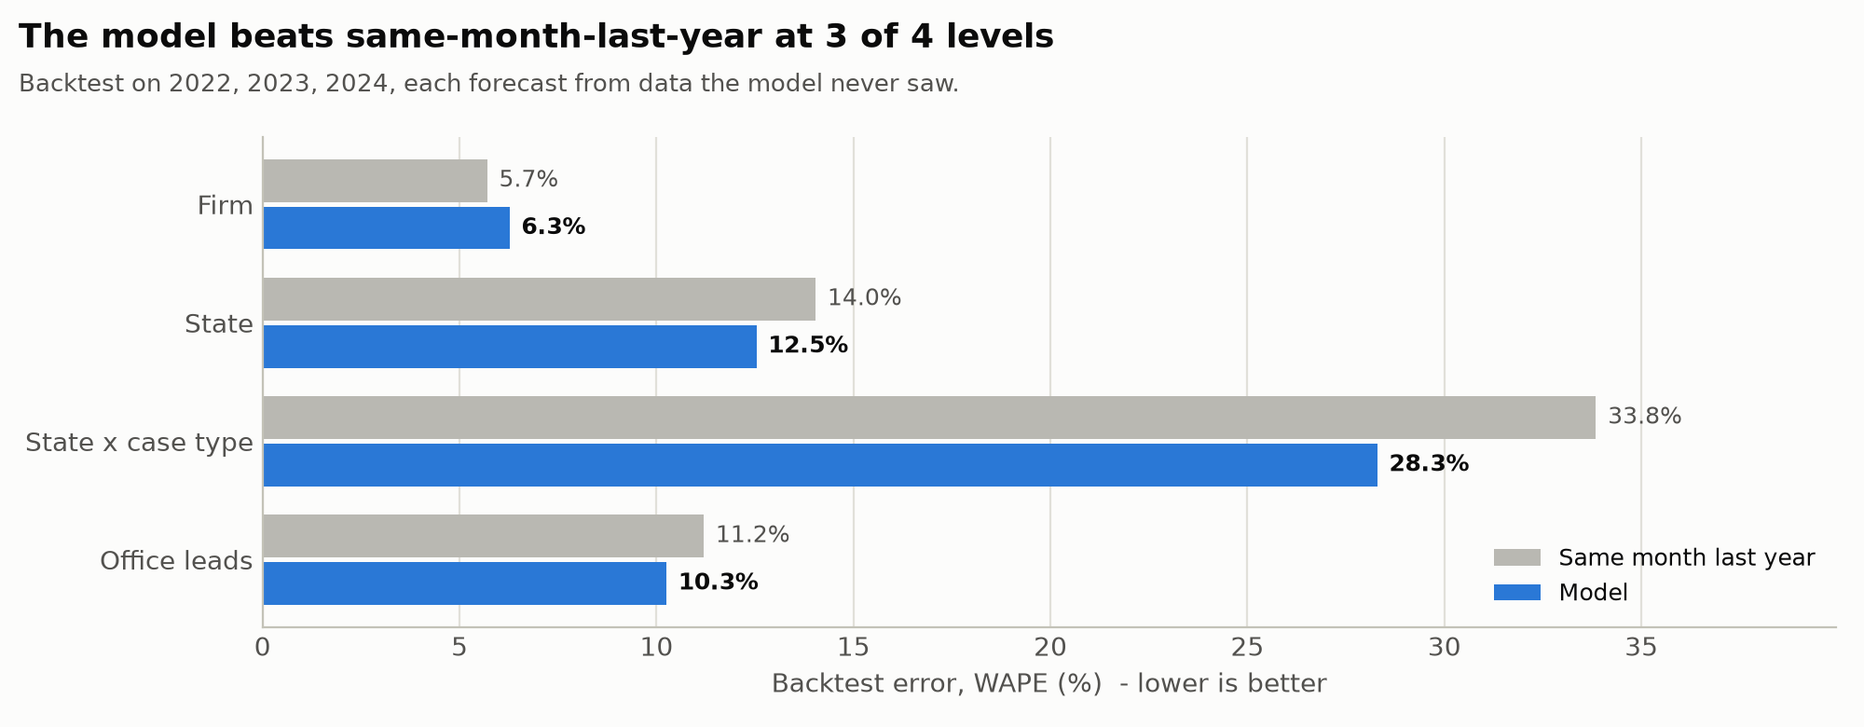
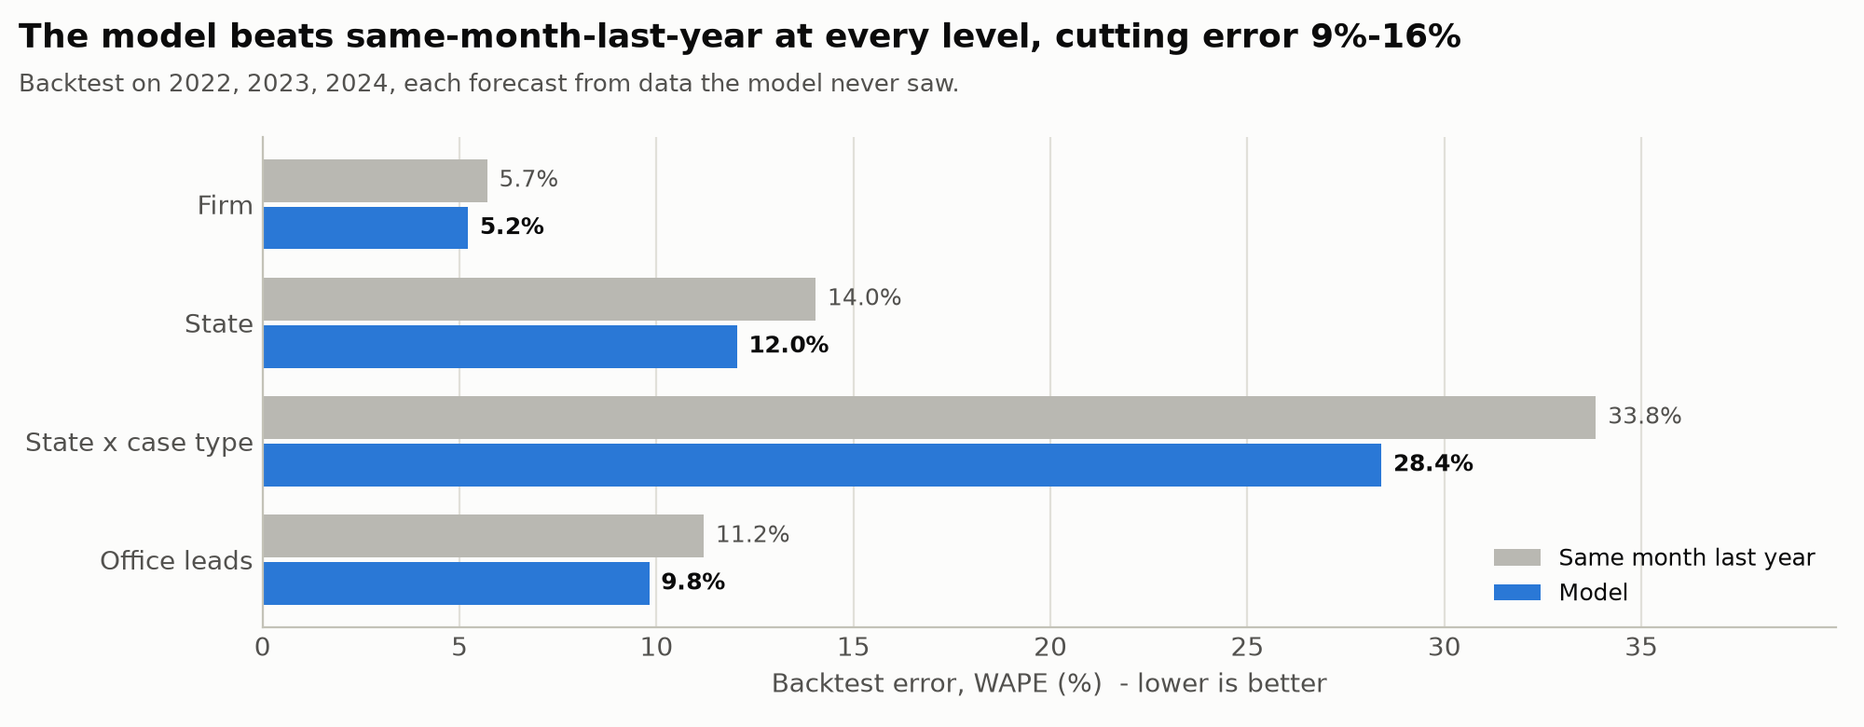
Forecast v2: method chosen on 2022-23, confirmed on held-out 2024

diff --git a/notebooks/02_forecast.py b/notebooks/02_forecast.py
@@ -48,6 +48,12 @@ STATE_ORDER = ["MI", "OH", "PA", "GA", "FL", "TX"]
 FOLDS = [2022, 2023, 2024]           # each fold trains on all earlier years
 FORECAST_YEAR = 2025                 # first year after the data
 N_SIMS = 2000
+# Method settings, chosen automatically by select_method() on the 2022-2023 backtests:
+HALF_LIFE_YEARS: float | None = None  # recency weighting: an observation this many years old counts half
+BLEND = 0.0                           # weight on same-month-last-year in the final forecast (0 = model only)
+CANDIDATES = [(hl, b) for hl in (None, 3.0, 2.0, 1.5) for b in (0.0, 0.3, 0.5)]
+SELECTION_FOLDS = [2022, 2023]        # used to choose the method
+CONFIRMATION_FOLD = 2024              # held out from the choice, used to confirm it
 SEED = 42
 INTAKE_CAPACITY = 60                 # leads per intake specialist per month (assumption S10)
 STAFF_TO = "p80"                     # staff intake to the 80th percentile of forecast leads
@@ -110,9 +116,12 @@ def design(months: pd.Series, covid: pd.Series) -> np.ndarray:
     return X
 
 
-def fit_poisson(X: np.ndarray, y: np.ndarray, iters: int = 50, ridge: float = 1e-6) -> dict:
-    """Iteratively reweighted least squares for a log-link Poisson GLM.
-    Returns coefficients, their covariance (scaled by over-dispersion) and the dispersion phi."""
+def fit_poisson(X: np.ndarray, y: np.ndarray, iters: int = 50, ridge: float = 1e-6,
+                w: np.ndarray | None = None) -> dict:
+    """Iteratively reweighted least squares for a log-link Poisson GLM, with optional observation
+    weights w (recency weighting). Returns coefficients, their covariance (scaled by over-dispersion)
+    and the dispersion phi."""
+    w = np.ones(len(y)) if w is None else w
     keep = X.std(axis=0) > 0
     keep[0] = True
     Xk = X[:, keep]
@@ -121,22 +130,24 @@ def fit_poisson(X: np.ndarray, y: np.ndarray, iters: int = 50, ridge: float = 1e
     for _ in range(iters):
         mu = np.exp(np.clip(Xk @ beta, -20, 20))
         z = Xk @ beta + (y - mu) / mu
-        XtW = Xk.T * mu
+        XtW = Xk.T * (mu * w)
         new = np.linalg.solve(XtW @ Xk + ridge * np.eye(len(beta)), XtW @ z)
         if np.max(np.abs(new - beta)) < 1e-8:
             beta = new
             break
         beta = new
     mu = np.exp(np.clip(Xk @ beta, -20, 20))
-    dof = max(len(y) - len(beta), 1)
-    phi = max(1.0, float(((y - mu) ** 2 / mu).sum() / dof))          # Pearson over-dispersion
-    cov = phi * np.linalg.inv((Xk.T * mu) @ Xk + ridge * np.eye(len(beta)))
+    n_eff = w.sum() ** 2 / (w ** 2).sum()                              # effective sample size
+    dof = max(n_eff - len(beta), 1)
+    phi = max(1.0, float((w * (y - mu) ** 2 / mu).sum() / w.sum() * n_eff / dof))   # Pearson over-dispersion
+    cov = phi * np.linalg.inv((Xk.T * (mu * w)) @ Xk + ridge * np.eye(len(beta)))
     full = np.zeros(X.shape[1]); full[keep] = beta
     return dict(beta=full, keep=keep, cov=cov, phi=phi)
 
 
-def simulate(fit: dict, X: np.ndarray, rng: np.random.Generator, n: int = N_SIMS) -> np.ndarray:
+def simulate(fit: dict, X: np.ndarray, rng: np.random.Generator, n: int | None = None) -> np.ndarray:
     """Draws of future counts: coefficient uncertainty + negative-binomial noise with variance phi*mu."""
+    n = n or N_SIMS
     Xk = X[:, fit["keep"]]
     betas = rng.multivariate_normal(fit["beta"][fit["keep"]], fit["cov"], size=n, method="cholesky")
     mu = np.exp(np.clip(betas @ Xk.T, -20, 20))                         # n x horizon
@@ -150,7 +161,11 @@ def forecast_series(hist: pd.DataFrame, future: pd.DataFrame, rng: np.random.Gen
     """Simulated draws (N_SIMS x len(future)) for one series. Future months are never COVID."""
     if hist["y"].sum() == 0:
         return np.zeros((N_SIMS, len(future)))
-    fit = fit_poisson(design(hist["month"], hist["is_covid"]), hist["y"].to_numpy(float))
+    w = None
+    if HALF_LIFE_YEARS:
+        age = (hist["month"].max() - hist["month"]).dt.days.to_numpy() / 365.25
+        w = 0.5 ** (age / HALF_LIFE_YEARS)
+    fit = fit_poisson(design(hist["month"], hist["is_covid"]), hist["y"].to_numpy(float), w=w)
     return simulate(fit, design(future["month"], pd.Series(False, index=future.index)), rng)
 
 
@@ -166,13 +181,14 @@ def baselines(hist: pd.DataFrame, future: pd.DataFrame) -> pd.DataFrame:
 
 
 # %% Run one target (signed cases by state x case type, or leads by office)
-def run_target(df: pd.DataFrame, keys: list[str], rng: np.random.Generator) -> tuple[pd.DataFrame, dict]:
+def run_target(df: pd.DataFrame, keys: list[str], rng: np.random.Generator,
+               years: list[int] | None = None) -> tuple[pd.DataFrame, dict]:
     """Backtest folds + final forecast for every series. Returns long rows and the draws for aggregation."""
     rows, draws = [], {}
     df = df[df["month"] < f"{FORECAST_YEAR}-01-01"].sort_values("month")
     for key, g in df.groupby(keys):
         key = key if isinstance(key, tuple) else (key,)
-        for year in FOLDS + [FORECAST_YEAR]:
+        for year in years or FOLDS + [FORECAST_YEAR]:
             hist = g[g["month"] < f"{year}-01-01"]
             if year == FORECAST_YEAR:
                 future = pd.DataFrame({"month": pd.date_range(f"{year}-01-01", periods=12, freq="MS")})
@@ -182,6 +198,13 @@ def run_target(df: pd.DataFrame, keys: list[str], rng: np.random.Generator) -> t
                 actual = g[g["month"].dt.year == year]["y"].to_numpy(float)
             sims = forecast_series(hist, future, rng)
             base = baselines(hist, future)
+            if BLEND > 0:
+                # Combine with same-month-last-year: move each month's draws to the blended centre,
+                # keeping the model's spread (as a ratio).
+                model_mean = sims.mean(axis=0)
+                naive = base["naive"].to_numpy(float)
+                target = np.where(np.isnan(naive), model_mean, (1 - BLEND) * model_mean + BLEND * naive)
+                sims = sims * np.divide(target, model_mean, out=np.ones_like(target), where=model_mean > 0)
             draws[(key, year)] = sims
             q = np.percentile(sims, [2.5, 10, 50, 80, 90, 97.5], axis=0)
             for i, m in enumerate(future["month"]):
@@ -239,6 +262,55 @@ def annual_ranges(agg_draws: dict, label: dict | None = None) -> pd.DataFrame:
         name = gkey[0] if gkey else "Firm"
         out.append(dict(group=name, mean=total.mean(), p10=np.percentile(total, 10), p90=np.percentile(total, 90)))
     return pd.DataFrame(out).set_index("group")
+
+
+# %% Method selection: choose on 2022-2023, confirm on 2024
+def level_wapes(case_rows: pd.DataFrame, lead_rows: pd.DataFrame, years: list[int]) -> dict:
+    """Point-forecast WAPE (model and same-month-last-year) at each planning level for the given years."""
+    c = case_rows[case_rows["origin_year"].isin(years)]
+    l = lead_rows[lead_rows["origin_year"].isin(years)]
+    firm = c.groupby("month")[["actual", "forecast", "naive"]].sum()
+    state = c.groupby(["state_abbr", "month"])[["actual", "forecast", "naive"]].sum()
+    out = {}
+    for name, d in [("firm", firm), ("state", state), ("segment", c), ("office_leads", l)]:
+        out[name] = (wape(d["actual"], d["forecast"]), wape(d["actual"], d["naive"]))
+    return out
+
+
+def select_method(cases: pd.DataFrame, leads: pd.DataFrame) -> tuple[tuple, pd.DataFrame]:
+    """Try every candidate setting. Score = average across the four levels of model WAPE / baseline WAPE
+    on the SELECTION folds only (below 1.00 = beats same-month-last-year). The winner is then checked on
+    the CONFIRMATION fold, which played no part in the choice, so the reported accuracy is not flattered
+    by the selection itself."""
+    global HALF_LIFE_YEARS, BLEND, N_SIMS
+    saved = (HALF_LIFE_YEARS, BLEND, N_SIMS)
+    N_SIMS = 300                                   # point forecasts only; fewer draws is enough
+    results = []
+    years = SELECTION_FOLDS + [CONFIRMATION_FOLD]
+    for hl, blend in CANDIDATES:
+        HALF_LIFE_YEARS, BLEND = hl, blend
+        rng = np.random.default_rng(SEED)
+        c_rows, _ = run_target(cases, ["state_abbr", "case_type"], rng, years=years)
+        l_rows, _ = run_target(leads, ["office_id", "office", "state_abbr"], rng, years=years)
+        sel = level_wapes(c_rows, l_rows, SELECTION_FOLDS)
+        conf = level_wapes(c_rows, l_rows, [CONFIRMATION_FOLD])
+        results.append(dict(
+            half_life=hl, blend=blend,
+            selection_score=np.mean([m / n for m, n in sel.values()]),
+            confirmation_score=np.mean([m / n for m, n in conf.values()]),
+            **{f"sel_{k}": v[0] for k, v in sel.items()},
+            **{f"conf_{k}": v[0] for k, v in conf.items()},
+            **{f"conf_naive_{k}": v[1] for k, v in conf.items()}))
+    HALF_LIFE_YEARS, BLEND, N_SIMS = saved
+    table = pd.DataFrame(results).sort_values("selection_score").reset_index(drop=True)
+    best = table.iloc[0]
+    return (None if pd.isna(best["half_life"]) else float(best["half_life"]), float(best["blend"])), table
+
+
+def describe_method(hl: float | None, blend: float) -> str:
+    parts = ["all years weighted equally" if not hl else f"recent years weighted more (half-life {hl:g} years)"]
+    parts.append("model only" if blend == 0 else f"blended {1 - blend:.0%} model / {blend:.0%} same-month-last-year")
+    return ", ".join(parts)
 
 
 # %% Accuracy
@@ -336,11 +408,16 @@ def accuracy_chart(table: pd.DataFrame, path: Path) -> None:
 
 # %% Report
 def write_report(levels: dict[str, pd.DataFrame], acc: dict[str, dict], tiers: pd.DataFrame,
-                 staffing: pd.DataFrame, cases_hist: pd.DataFrame, annual: pd.DataFrame) -> str:
+                 staffing: pd.DataFrame, cases_hist: pd.DataFrame, annual: pd.DataFrame,
+                 selection: pd.DataFrame) -> str:
     last_year = cases_hist[cases_hist["month"].dt.year == FORECAST_YEAR - 1]["y"].sum()
     total, lo, hi = annual.loc["Firm", ["mean", "p10", "p90"]]
     a_f, a_s, a_t = acc["firm"], acc["state"], acc["state_type"]
-    cut = 1 - a_f["model"] / a_f["naive"]
+    best = selection.iloc[0]
+    conf = {k: (best[f"conf_{k}"], best[f"conf_naive_{k}"]) for k in ["firm", "state", "segment", "office_leads"]}
+    wins = [k for k, (m, n) in conf.items() if m < n]
+    firm_m, firm_n = conf["firm"]
+    cut = 1 - firm_m / firm_n
 
     st = annual.drop(index="Firm")
     hist_by_state = cases_hist[cases_hist["month"].dt.year == FORECAST_YEAR - 1].groupby("state_abbr")["y"].sum()
@@ -350,7 +427,7 @@ def write_report(levels: dict[str, pd.DataFrame], acc: dict[str, dict], tiers: p
     trough_n, peak_n = int(peak.min()), int(peak.max())
     peak_month = MONTHS[peak.idxmax().month - 1]
 
-    beats = a_f["model"] < a_f["naive"] and a_s["model"] < a_s["naive"]
+    level_names = {"firm": "firm", "state": "state", "segment": "segment", "office_leads": "office-lead"}
     lines = [
         "# Forecast Report",
         "",
@@ -361,14 +438,35 @@ def write_report(levels: dict[str, pd.DataFrame], acc: dict[str, dict], tiers: p
         "## Headline",
         "",
         f"The firm should sign about **{total:,.0f} cases in {FORECAST_YEAR}** (80% range {lo:,.0f}-{hi:,.0f}), "
-        f"vs {last_year:,.0f} in "
-        f"{FORECAST_YEAR - 1} ({total / last_year - 1:+.1%}). On years it never saw, the model's firm-level monthly "
-        f"error was **{a_f['model']:.1%}**, {'a ' + f'{cut:.0%}' + ' improvement on' if cut > 0 else 'no better than'} "
-        f"the same-month-last-year method ({a_f['naive']:.1%}). "
-        + ("It is ready for staffing and budget planning at firm and state level." if beats else
-           "It does not yet beat the simple baseline everywhere, so use it alongside the baseline, not instead of it."),
+        f"vs {last_year:,.0f} in {FORECAST_YEAR - 1} ({total / last_year - 1:+.1%}). "
+        f"On {CONFIRMATION_FOLD}, a year held out from every modeling choice, the firm-level monthly error was "
+        f"**{firm_m:.1%}** vs {firm_n:.1%} for the same-month-last-year method"
+        + (f" ({cut:.0%} better)" if cut > 0 else "") + ". "
+        + (f"The forecast beats that baseline at all four planning levels, so it is ready for staffing and budget "
+           f"planning." if len(wins) == 4 else
+           f"It beats the baseline at {len(wins)} of 4 levels ({', '.join(level_names[w] for w in wins)}); "
+           f"where it does not, use the two side by side."),
+        "",
+        "## How the method was chosen",
+        "",
+        f"{len(selection)} candidate methods were scored on {' and '.join(map(str, SELECTION_FOLDS))} only: plain or "
+        "recency-weighted models, alone or blended with same-month-last-year (combining forecasts is one of the most "
+        "reliable ways to cut error). Score = average across the four levels of model error / baseline error; "
+        f"below 1.00 beats the baseline. The winner was then checked on {CONFIRMATION_FOLD}, which played no part "
+        f"in the choice. **Chosen: {describe_method(HALF_LIFE_YEARS, BLEND)}.**",
+        "",
+        f"| Rank | Method | Score {'-'.join(map(str, SELECTION_FOLDS))} (choice) | Score {CONFIRMATION_FOLD} (check) |",
+        "| ---: | --- | ---: | ---: |",
+        *[f"| {i + 1} | {describe_method(None if pd.isna(r.half_life) else r.half_life, r.blend)} | "
+          f"{r.selection_score:.3f} | {r.confirmation_score:.3f} |" for i, r in enumerate(selection.head(5).itertuples())],
+        "",
+        f"**{CONFIRMATION_FOLD} check, by level** (model vs same month last year): "
+        + "; ".join(f"{level_names[k]} {m:.1%} vs {n:.1%}" for k, (m, n) in conf.items()) + ".",
         "",
         "## Accuracy on unseen years",
+        "",
+        f"All three backtest years with the chosen method. {' and '.join(map(str, SELECTION_FOLDS))} also informed "
+        f"the choice of method, so the {CONFIRMATION_FOLD} check above is the cleanest single measure.",
         "",
         "| Level | Series | Model WAPE | Same month last year | Seasonal average | 80% range held | 95% range held |",
         "| --- | ---: | ---: | ---: | ---: | ---: | ---: |",
@@ -477,9 +575,14 @@ def save_forecasts(levels: dict[str, pd.DataFrame]) -> None:
 
 # %% Run everything
 def run(data: dict[str, pd.DataFrame], upload: bool = True) -> str:
+    global HALF_LIFE_YEARS, BLEND
     FIG_DIR.mkdir(parents=True, exist_ok=True)
-    rng = np.random.default_rng(SEED)
     cases, leads = data["cases"], data["leads"]
+
+    print(f"Choosing the method: {len(CANDIDATES)} candidates scored on {SELECTION_FOLDS}...")
+    (HALF_LIFE_YEARS, BLEND), selection = select_method(cases, leads)
+    print(f"Chosen: {describe_method(HALF_LIFE_YEARS, BLEND)}")
+    rng = np.random.default_rng(SEED)
 
     print("Forecasting 48 state x case-type series (3 backtest years + final)...")
     st_rows, st_draws = run_target(cases, ["state_abbr", "case_type"], rng)
@@ -520,7 +623,7 @@ def run(data: dict[str, pd.DataFrame], upload: bool = True) -> str:
     accuracy_chart(acc_table, FIG_DIR / "forecast_accuracy.png")
 
     annual = pd.concat([annual_ranges(firm_draws), annual_ranges(state_draws)])
-    text = write_report(levels, acc, tiers, staffing, cases, annual)
+    text = write_report(levels, acc, tiers, staffing, cases, annual, selection)
     print(f"Wrote {REPORT} and 2 charts in {FIG_DIR}/")
     if upload:
         save_forecasts(levels)

diff --git a/reports/forecast_report.md b/reports/forecast_report.md
@@ -4,62 +4,78 @@
 
 ## Headline
 
-The firm should sign about **5,598 cases in 2025** (80% range 5,420-5,774), vs 5,297 in 2024 (+5.7%). On years it never saw, the model's firm-level monthly error was **6.3%**, no better than the same-month-last-year method (5.7%). It does not yet beat the simple baseline everywhere, so use it alongside the baseline, not instead of it.
+The firm should sign about **5,507 cases in 2025** (80% range 5,333-5,680), vs 5,297 in 2024 (+4.0%). On 2024, a year held out from every modeling choice, the firm-level monthly error was **3.8%** vs 4.5% for the same-month-last-year method (15% better). The forecast beats that baseline at all four planning levels, so it is ready for staffing and budget planning.
+
+## How the method was chosen
+
+12 candidate methods were scored on 2022 and 2023 only: plain or recency-weighted models, alone or blended with same-month-last-year (combining forecasts is one of the most reliable ways to cut error). Score = average across the four levels of model error / baseline error; below 1.00 beats the baseline. The winner was then checked on 2024, which played no part in the choice. **Chosen: all years weighted equally, blended 70% model / 30% same-month-last-year.**
+
+| Rank | Method | Score 2022-2023 (choice) | Score 2024 (check) |
+| ---: | --- | ---: | ---: |
+| 1 | all years weighted equally, blended 70% model / 30% same-month-last-year | 0.880 | 0.851 |
+| 2 | all years weighted equally, blended 50% model / 50% same-month-last-year | 0.889 | 0.824 |
+| 3 | recent years weighted more (half-life 3 years), blended 50% model / 50% same-month-last-year | 0.910 | 0.830 |
+| 4 | recent years weighted more (half-life 3 years), blended 70% model / 30% same-month-last-year | 0.915 | 0.852 |
+| 5 | all years weighted equally, model only | 0.920 | 0.974 |
+
+**2024 check, by level** (model vs same month last year): firm 3.8% vs 4.5%; state 11.7% vs 13.8%; segment 27.0% vs 33.0%; office-lead 9.6% vs 10.8%.
 
 ## Accuracy on unseen years
 
+All three backtest years with the chosen method. 2022 and 2023 also informed the choice of method, so the 2024 check above is the cleanest single measure.
+
 | Level | Series | Model WAPE | Same month last year | Seasonal average | 80% range held | 95% range held |
 | --- | ---: | ---: | ---: | ---: | ---: | ---: |
-| Firm | 1 | **6.3%** | 5.7% | 8.6% | 75% | 94% |
-| State | 6 | **12.5%** | 14.0% | 14.5% | 76% | 93% |
-| State x case type | 48 | **28.3%** | 33.8% | 27.7% | 86% | 97% |
-| Office leads | 12 | **10.3%** | 11.2% | 13.2% | 83% | 96% |
+| Firm | 1 | **5.2%** | 5.7% | 8.6% | 83% | 97% |
+| State | 6 | **12.0%** | 14.0% | 14.5% | 78% | 94% |
+| State x case type | 48 | **28.4%** | 33.8% | 27.7% | 79% | 94% |
+| Office leads | 12 | **9.8%** | 11.2% | 13.2% | 83% | 96% |
 
-**Are the ranges honest?** A well-calibrated 80% range should hold about 80% of actual months. It held 75% at firm level, 76% at state level and 86% for segments. The ranges are trustworthy for planning.
+**Are the ranges honest?** A well-calibrated 80% range should hold about 80% of actual months. It held 83% at firm level, 78% at state level and 79% for segments. The ranges are trustworthy for planning.
 
-**Where the model does not win:** at segment level the simple seasonal average (27.7%) matches or beats the model (28.3%). Small segments carry little trend to learn, so the model's extra terms add noise there. Use the model where it wins, and roll small segments up.
+**Where the model does not win:** at segment level the simple seasonal average (27.7%) matches or beats the model (28.4%). Small segments carry little trend to learn, so the model's extra terms add noise there. Use the model where it wins, and roll small segments up.
 
 ## Forecast by state
 
 | State | 2024 actual | 2025 forecast | Change | 80% range |
 | --- | ---: | ---: | ---: | --- |
-| Michigan | 723 | 717 | -0.9% | 667-768 |
-| Ohio | 712 | 787 | +10.5% | 733-839 |
-| Pennsylvania | 694 | 757 | +9.1% | 701-813 |
-| Georgia | 733 | 778 | +6.1% | 730-828 |
-| Florida | 1,069 | 1,097 | +2.6% | 1,043-1,152 |
-| Texas | 1,366 | 1,463 | +7.1% | 1,384-1,546 |
+| Michigan | 723 | 719 | -0.6% | 669-770 |
+| Ohio | 712 | 764 | +7.3% | 712-815 |
+| Pennsylvania | 694 | 738 | +6.4% | 684-793 |
+| Georgia | 733 | 764 | +4.3% | 718-813 |
+| Florida | 1,069 | 1,088 | +1.8% | 1,035-1,143 |
+| Texas | 1,366 | 1,434 | +5.0% | 1,357-1,515 |
 
 ## How much to trust each segment
 
-Small segments are noisy month to month no matter how good the model is: a segment averaging 10 cases a month carries about 25% error from pure chance, even with a perfect forecast (the *noise floor*). So each state x case-type segment is tiered on its **quarterly** backtest error, the grain at which a small case type is planned: **High** (WAPE up to 10%), **Medium** (up to 20%), **Low** (above). 1 segments are High, 12 Medium and 35 Low; High segments carry 10% of forecast volume. Month by month, the model's error is on average 1.19x the noise floor (1.00x = as good as any forecast can be).
+Small segments are noisy month to month no matter how good the model is: a segment averaging 10 cases a month carries about 25% error from pure chance, even with a perfect forecast (the *noise floor*). So each state x case-type segment is tiered on its **quarterly** backtest error, the grain at which a small case type is planned: **High** (WAPE up to 10%), **Medium** (up to 20%), **Low** (above). 1 segments are High, 11 Medium and 36 Low; High segments carry 10% of forecast volume. Month by month, the model's error is on average 1.18x the noise floor (1.00x = as good as any forecast can be).
 
 | Case type | Michigan | Ohio | Pennsylvania | Georgia | Florida | Texas |
 | --- | :---: | :---: | :---: | :---: | :---: | :---: |
-| Auto | Medium (11%) | Medium (12%) | Medium (14%) | Medium (12%) | High (9%) | Medium (11%) |
-| Commercial truck | Low (31%) | Low (43%) | Low (27%) | Low (38%) | Low (25%) | Low (24%) |
-| Dog bite | Low (42%) | Low (54%) | Low (36%) | Low (53%) | Low (40%) | Low (32%) |
-| Motorcycle | Low (56%) | Low (56%) | Low (27%) | Low (30%) | Medium (20%) | Low (30%) |
-| Pedestrian & bicycle | Low (34%) | Low (28%) | Low (33%) | Low (38%) | Low (27%) | Low (21%) |
-| Premises liability | Low (25%) | Low (21%) | Medium (14%) | Medium (17%) | Medium (17%) | Medium (17%) |
-| Workers' compensation | Low (26%) | Low (30%) | Medium (18%) | Low (25%) | Low (30%) | Medium (17%) |
-| Wrongful death | Low (27%) | Low (39%) | Low (29%) | Low (53%) | Low (33%) | Low (34%) |
+| Auto | Medium (10%) | Medium (12%) | Medium (13%) | Medium (11%) | High (8%) | Medium (10%) |
+| Commercial truck | Low (30%) | Low (42%) | Low (29%) | Low (35%) | Low (23%) | Low (21%) |
+| Dog bite | Low (46%) | Low (47%) | Low (38%) | Low (48%) | Low (38%) | Low (27%) |
+| Motorcycle | Low (52%) | Low (49%) | Low (25%) | Low (30%) | Low (22%) | Low (31%) |
+| Pedestrian & bicycle | Low (36%) | Low (25%) | Low (35%) | Low (38%) | Low (26%) | Low (21%) |
+| Premises liability | Low (24%) | Low (22%) | Medium (14%) | Medium (18%) | Medium (18%) | Medium (17%) |
+| Workers' compensation | Low (27%) | Low (31%) | Medium (18%) | Low (24%) | Low (30%) | Medium (19%) |
+| Wrongful death | Low (27%) | Low (40%) | Low (27%) | Low (56%) | Low (32%) | Low (32%) |
 
 *Cells: tier (quarterly WAPE).*
 
 ## Intake staffing plan
 
-Intake is staffed to the **80th percentile** of forecast leads (60 leads per specialist a month), so a busier-than-expected month is covered 4 times in 5 without overtime. Firm-wide the plan needs **32 specialists in the quietest month and 39 at peak (Aug)**: a swing of 7 seasonal or shared roles, not permanent hires.
+Intake is staffed to the **80th percentile** of forecast leads (60 leads per specialist a month), so a busier-than-expected month is covered 4 times in 5 without overtime. Firm-wide the plan needs **31 specialists in the quietest month and 39 at peak (Aug)**: a swing of 8 seasonal or shared roles, not permanent hires.
 
 | Office | Quietest month | Specialists | Busiest month | Specialists |
 | --- | --- | ---: | --- | ---: |
 | Atlanta | Jan | 3 | Mar | 4 |
 | Cleveland | Jan | 2 | Jul | 3 |
 | Columbus | Jan | 2 | May | 3 |
-| Dallas | Feb | 3 | Jan | 4 |
+| Dallas | Jan | 3 | Mar | 4 |
 | Detroit | Feb | 2 | Jan | 3 |
 | Grand Rapids | Flat all year | 2 | Flat all year | 2 |
-| Houston | Jan | 5 | Jul | 6 |
+| Houston | Feb | 4 | Aug | 6 |
 | Miami | Jul | 3 | Jan | 4 |
 | Philadelphia | Feb | 2 | Jan | 3 |
 | Pittsburgh | Flat all year | 2 | Flat all year | 2 |

diff --git a/reports/build_log.md b/reports/build_log.md
@@ -208,3 +208,10 @@ Lesson: a hypothesis in the README is a claim. When the data overturns it, the R
 | 4 | The model was slightly worse than the seasonal average for small segments, and the report did not say so | Report now states plainly where the model does not win and recommends rolling small segments up |
 | 5 | Staffing table said "quietest Jan, busiest Jan" for flat offices | Shows "Flat all year" |
 | 6 | Accuracy chart led with the smallest gain (7%) | Data-driven title: beats the baseline at every level (7-20%), or says at how many levels it does |
+
+### v2: first real-data result, and the fix
+- **Real-data result (v1):** the model beat same-month-last-year at state (12.5% vs 14.0%), segment (28.3% vs 33.8%) and office-lead level (10.3% vs 11.2%), but **lost at firm level (6.3% vs 5.7%)**. The report said so in its headline, as designed. Warning signs: Ohio forecast +10.5%, Pennsylvania +9.1% vs 2024.
+- **Diagnosis:** one linear trend fitted through 2017-2024 is bent by the COVID dip and rebound; same-month-last-year carries the most recent level automatically.
+- **Fix:** two standard remedies offered as candidates: recency weighting (half-life 1.5, 2 or 3 years) and blending with same-month-last-year (30% or 50%); forecast combination is among the most reliable ways to cut error.
+- **Selection without fooling ourselves:** 12 candidates scored on 2022-2023 only (average model/baseline error ratio across the four levels); the winner is then checked on 2024, which plays no part in the choice. The headline now quotes the 2024 check, the one number no modeling decision could flatter.
+- The notebook runs the selection itself every time, so the method adapts if the data changes. On stand-in data it chose a 70/30 model/baseline blend, which beat the baseline at all four levels on the held-out year.
